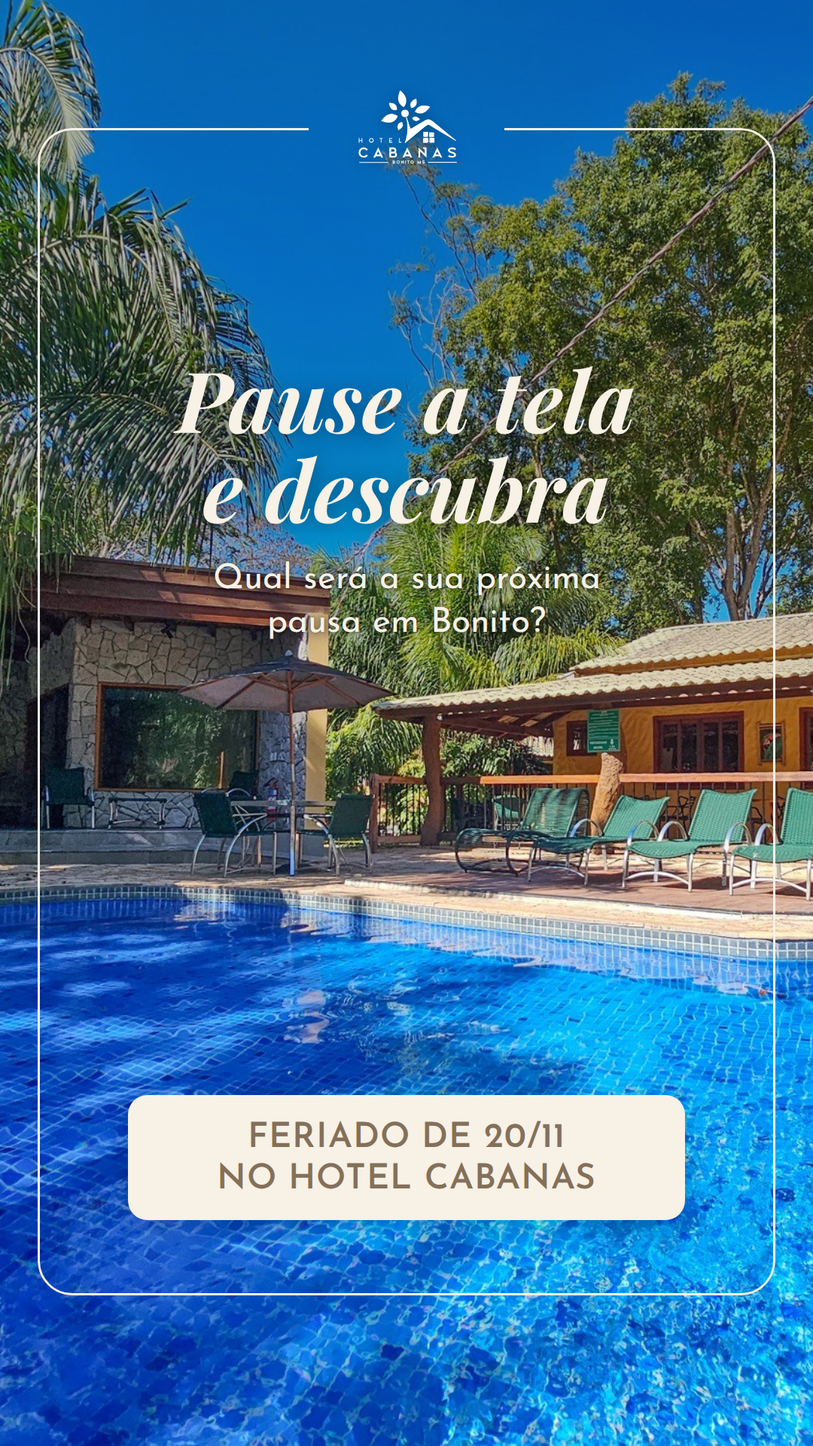
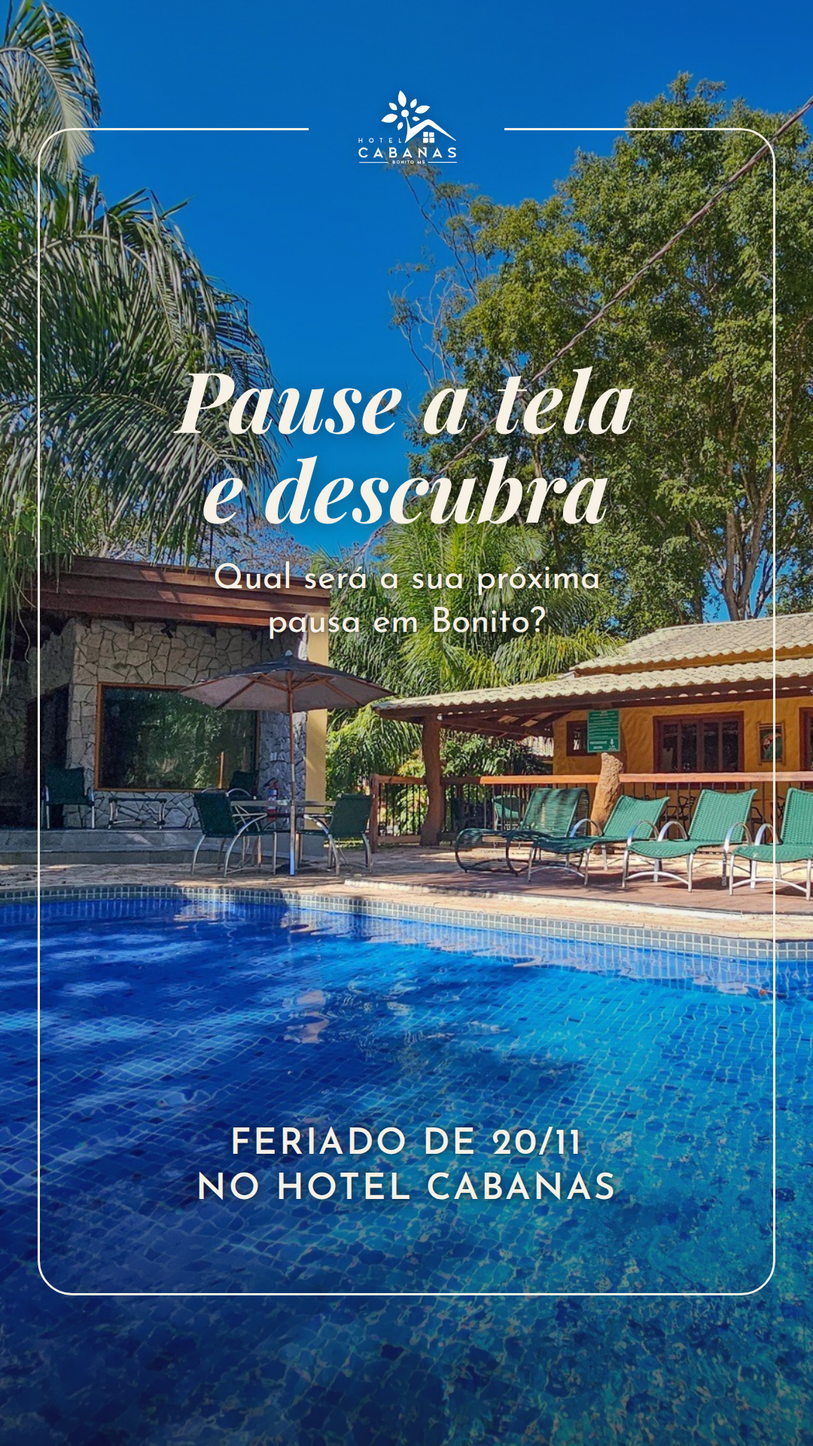
Teste 'Pause a tela': sem a caixa clara embaixo, só a legenda
Claude-Session: https://claude.ai/code/session_01GffBmxQFJnfaKwiJFV7qgT

diff --git a/design/pecas/2026-10-instagram/TESTE-MODELO-PAUSE/PAUSE-2.html b/design/pecas/2026-10-instagram/TESTE-MODELO-PAUSE/PAUSE-2.html
@@ -14,13 +14,15 @@
 .texto { position: absolute; left: 90px; right: 90px; top: 470px; text-align: center; }
 .texto h1 { font-family: "Playfair Display", serif; font-style: italic; font-weight: 700; font-size: 112px; line-height: 1.06; text-shadow: 0 3px 24px rgba(0,0,0,.35); }
 .texto p { margin-top: 34px; font-family: "Josefin Sans", sans-serif; font-weight: 400; font-size: 46px; line-height: 1.25; text-shadow: 0 2px 16px rgba(0,0,0,.6), 0 0 4px rgba(0,0,0,.3); }
-.etiqueta { position: absolute; left: 170px; right: 170px; bottom: 300px; background: var(--creme); border-radius: 26px 26px 26px 26px;
-  padding: 30px 36px 26px; text-align: center; box-shadow: 0 10px 30px rgba(0,0,0,.18); }
-.etiqueta span { font-family: "Josefin Sans", sans-serif; font-weight: 600; font-size: 46px; line-height: 1.2; letter-spacing: .02em; text-transform: uppercase; color: var(--marrom); }
+.pe { position: absolute; inset: auto 0 0 0; height: 760px; background: linear-gradient(to top, rgba(20,14,8,.62), rgba(20,14,8,.3) 55%, rgba(20,14,8,0)); }
+.etiqueta { position: absolute; left: 120px; right: 120px; bottom: 310px; text-align: center; }
+.etiqueta span { font-family: "Josefin Sans", sans-serif; font-weight: 600; font-size: 48px; line-height: 1.25; letter-spacing: .06em; text-transform: uppercase; color: var(--creme);
+  text-shadow: 0 2px 16px rgba(0,0,0,.6), 0 0 4px rgba(0,0,0,.35); }
 </style></head>
 <body><div class="peca story">
   <img class="foto" src="fotos/cabana-casal.jpg" alt="">
   <div class="ceu"></div>
+  <div class="pe"></div>
   <div class="moldura"></div>
   <div class="selo"><img src="../../../../contexto/marca/logo-hotel-cabanas-branco.png" alt="Hotel Cabanas"></div>
   <div class="texto"><h1>Pause a tela<br>e descubra</h1><p>Qual será a sua próxima<br>pausa em Bonito?</p></div>

diff --git a/design/pecas/2026-10-instagram/TESTE-MODELO-PAUSE/PAUSE-3.html b/design/pecas/2026-10-instagram/TESTE-MODELO-PAUSE/PAUSE-3.html
@@ -14,13 +14,15 @@
 .texto { position: absolute; left: 90px; right: 90px; top: 470px; text-align: center; }
 .texto h1 { font-family: "Playfair Display", serif; font-style: italic; font-weight: 700; font-size: 112px; line-height: 1.06; text-shadow: 0 3px 24px rgba(0,0,0,.35); }
 .texto p { margin-top: 34px; font-family: "Josefin Sans", sans-serif; font-weight: 400; font-size: 46px; line-height: 1.25; text-shadow: 0 2px 16px rgba(0,0,0,.6), 0 0 4px rgba(0,0,0,.3); }
-.etiqueta { position: absolute; left: 170px; right: 170px; bottom: 300px; background: var(--creme); border-radius: 26px 26px 26px 26px;
-  padding: 30px 36px 26px; text-align: center; box-shadow: 0 10px 30px rgba(0,0,0,.18); }
-.etiqueta span { font-family: "Josefin Sans", sans-serif; font-weight: 600; font-size: 46px; line-height: 1.2; letter-spacing: .02em; text-transform: uppercase; color: var(--marrom); }
+.pe { position: absolute; inset: auto 0 0 0; height: 760px; background: linear-gradient(to top, rgba(20,14,8,.62), rgba(20,14,8,.3) 55%, rgba(20,14,8,0)); }
+.etiqueta { position: absolute; left: 120px; right: 120px; bottom: 310px; text-align: center; }
+.etiqueta span { font-family: "Josefin Sans", sans-serif; font-weight: 600; font-size: 48px; line-height: 1.25; letter-spacing: .06em; text-transform: uppercase; color: var(--creme);
+  text-shadow: 0 2px 16px rgba(0,0,0,.6), 0 0 4px rgba(0,0,0,.35); }
 </style></head>
 <body><div class="peca story">
   <img class="foto" src="fotos/dois-rios.jpg" alt="">
   <div class="ceu"></div>
+  <div class="pe"></div>
   <div class="moldura"></div>
   <div class="selo"><img src="../../../../contexto/marca/logo-hotel-cabanas-branco.png" alt="Hotel Cabanas"></div>
   <div class="texto"><h1>Pause a tela<br>e descubra</h1><p>Qual será a sua próxima<br>pausa em Bonito?</p></div>

diff --git a/design/pecas/2026-10-instagram/TESTE-MODELO-PAUSE/PAUSE-1.html b/design/pecas/2026-10-instagram/TESTE-MODELO-PAUSE/PAUSE-1.html
@@ -14,13 +14,15 @@
 .texto { position: absolute; left: 90px; right: 90px; top: 470px; text-align: center; }
 .texto h1 { font-family: "Playfair Display", serif; font-style: italic; font-weight: 700; font-size: 112px; line-height: 1.06; text-shadow: 0 3px 24px rgba(0,0,0,.35); }
 .texto p { margin-top: 34px; font-family: "Josefin Sans", sans-serif; font-weight: 400; font-size: 46px; line-height: 1.25; text-shadow: 0 2px 16px rgba(0,0,0,.6), 0 0 4px rgba(0,0,0,.3); }
-.etiqueta { position: absolute; left: 170px; right: 170px; bottom: 300px; background: var(--creme); border-radius: 26px 26px 26px 26px;
-  padding: 30px 36px 26px; text-align: center; box-shadow: 0 10px 30px rgba(0,0,0,.18); }
-.etiqueta span { font-family: "Josefin Sans", sans-serif; font-weight: 600; font-size: 46px; line-height: 1.2; letter-spacing: .02em; text-transform: uppercase; color: var(--marrom); }
+.pe { position: absolute; inset: auto 0 0 0; height: 760px; background: linear-gradient(to top, rgba(20,14,8,.62), rgba(20,14,8,.3) 55%, rgba(20,14,8,0)); }
+.etiqueta { position: absolute; left: 120px; right: 120px; bottom: 310px; text-align: center; }
+.etiqueta span { font-family: "Josefin Sans", sans-serif; font-weight: 600; font-size: 48px; line-height: 1.25; letter-spacing: .06em; text-transform: uppercase; color: var(--creme);
+  text-shadow: 0 2px 16px rgba(0,0,0,.6), 0 0 4px rgba(0,0,0,.35); }
 </style></head>
 <body><div class="peca story">
   <img class="foto" src="fotos/piscina.jpg" alt="">
   <div class="ceu"></div>
+  <div class="pe"></div>
   <div class="moldura"></div>
   <div class="selo"><img src="../../../../contexto/marca/logo-hotel-cabanas-branco.png" alt="Hotel Cabanas"></div>
   <div class="texto"><h1>Pause a tela<br>e descubra</h1><p>Qual será a sua próxima<br>pausa em Bonito?</p></div>

diff --git a/design/pecas/2026-10-instagram/TESTE-MODELO-PAUSE/gera-pause.py b/design/pecas/2026-10-instagram/TESTE-MODELO-PAUSE/gera-pause.py
@@ -3,7 +3,7 @@
 
 Uso (na raiz): python3 design/pecas/2026-10-instagram/TESTE-MODELO-PAUSE/gera-pause.py
 Moldura fina arredondada em creme, logo pequeno "furando" a moldura no topo, título grande em
-Playfair itálico, linha de apoio leve e uma etiqueta creme com texto marrom perto da base.
+Playfair itálico, linha de apoio leve e uma legenda em creme perto da base (sem caixa, pedido do dono em 01/10).
 """
 import html, json, os, subprocess
 
@@ -27,13 +27,15 @@ MODELO = """<!doctype html>
 .texto {{ position: absolute; left: 90px; right: 90px; top: {topo}px; text-align: center; }}
 .texto h1 {{ font-family: "Playfair Display", serif; font-style: italic; font-weight: 700; font-size: 112px; line-height: 1.06; text-shadow: 0 3px 24px rgba(0,0,0,.35); }}
 .texto p {{ margin-top: 34px; font-family: "Josefin Sans", sans-serif; font-weight: 400; font-size: 46px; line-height: 1.25; text-shadow: 0 2px 16px rgba(0,0,0,.6), 0 0 4px rgba(0,0,0,.3); }}
-.etiqueta {{ position: absolute; left: 170px; right: 170px; bottom: 300px; background: var(--creme); border-radius: 26px 26px 26px 26px;
-  padding: 30px 36px 26px; text-align: center; box-shadow: 0 10px 30px rgba(0,0,0,.18); }}
-.etiqueta span {{ font-family: "Josefin Sans", sans-serif; font-weight: 600; font-size: 46px; line-height: 1.2; letter-spacing: .02em; text-transform: uppercase; color: var(--marrom); }}
+.pe {{ position: absolute; inset: auto 0 0 0; height: 760px; background: linear-gradient(to top, rgba(20,14,8,.62), rgba(20,14,8,.3) 55%, rgba(20,14,8,0)); }}
+.etiqueta {{ position: absolute; left: 120px; right: 120px; bottom: 310px; text-align: center; }}
+.etiqueta span {{ font-family: "Josefin Sans", sans-serif; font-weight: 600; font-size: 48px; line-height: 1.25; letter-spacing: .06em; text-transform: uppercase; color: var(--creme);
+  text-shadow: 0 2px 16px rgba(0,0,0,.6), 0 0 4px rgba(0,0,0,.35); }}
 </style></head>
 <body><div class="peca story">
   <img class="foto" src="fotos/{foto}" alt="">
   <div class="ceu"></div>
+  <div class="pe"></div>
   <div class="moldura"></div>
   <div class="selo"><img src="../../../../contexto/marca/logo-hotel-cabanas-branco.png" alt="Hotel Cabanas"></div>
   <div class="texto"><h1>{titulo}</h1><p>{apoio}</p></div>
